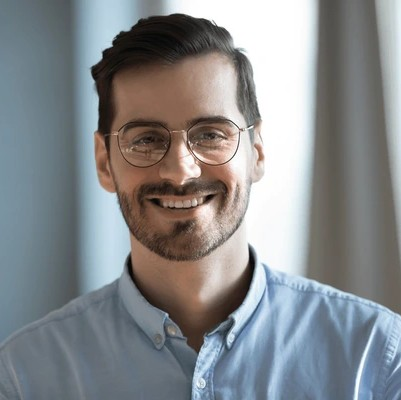
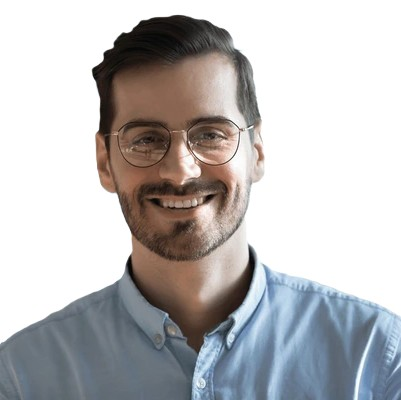
feat: create AgentDetails page

diff --git a/src/data/agents.js b/src/data/agents.js
@@ -6,6 +6,14 @@ import agent_5 from "../assets/images/agents/agent-5.jpg";
 import agent_6 from "../assets/images/agents/agent-6.jpg";
 import agent_7 from "../assets/images/agents/agent-7.jpg";
 import agent_8 from "../assets/images/agents/agent-8.jpg";
+import agent_image1 from "../assets/images/agents/agent-1.png";
+import agent_image2 from "../assets/images/agents/agent-2.png";
+import agent_image3 from "../assets/images/agents/agent-3.png";
+import agent_image4 from "../assets/images/agents/agent-4.png";
+import agent_image5 from "../assets/images/agents/agent-5.png";
+import agent_image6 from "../assets/images/agents/agent-6.png";
+import agent_image7 from "../assets/images/agents/agent-7.png";
+import agent_image8 from "../assets/images/agents/agent-8.png";
 
 const agents = [
   // Men (1-4)
@@ -16,7 +24,8 @@ const agents = [
     phone: "+1 555-123-4567",
     agency: "Luxury Homes Group",
     profileImage: agent_1,
-    bio: "Specializes in high-end properties with 10+ years experience in urban markets.",
+    agentImage: agent_image1,
+    bio: "Lorem, ipsum dolor sit amet consectetur adipisicing elit. Perferendis atque ex harum sed. Odit ratione expedita sed veniam cupiditate voluptate. Ut adipisci, culpa quibusdam cumque quo consectetur cum omnis in.",
   },
   {
     id: "agent_002",
@@ -25,7 +34,8 @@ const agents = [
     phone: "+1 555-234-5678",
     agency: "Premiere Estates",
     profileImage: agent_2,
-    bio: "Commercial real estate expert with focus on tech campuses.",
+    agentImage: agent_image2,
+    bio: "Lorem, ipsum dolor sit amet consectetur adipisicing elit. Perferendis atque ex harum sed. Odit ratione expedita sed veniam cupiditate voluptate. Ut adipisci, culpa quibusdam cumque quo consectetur cum omnis in.",
   },
   {
     id: "agent_003",
@@ -34,7 +44,8 @@ const agents = [
     phone: "+1 555-345-6789",
     agency: "Coastal Properties",
     profileImage: agent_3,
-    bio: "Waterfront property specialist serving beach communities since 2015.",
+    agentImage: agent_image3,
+    bio: "Lorem, ipsum dolor sit amet consectetur adipisicing elit. Perferendis atque ex harum sed. Odit ratione expedita sed veniam cupiditate voluptate. Ut adipisci, culpa quibusdam cumque quo consectetur cum omnis in.",
   },
   {
     id: "agent_004",
@@ -43,7 +54,8 @@ const agents = [
     phone: "+1 555-456-7890",
     agency: "Metro Realty Group",
     profileImage: agent_4,
-    bio: "First-time homebuyer consultant with patience-focused approach.",
+    agentImage: agent_image4,
+    bio: "Lorem, ipsum dolor sit amet consectetur adipisicing elit. Perferendis atque ex harum sed. Odit ratione expedita sed veniam cupiditate voluptate. Ut adipisci, culpa quibusdam cumque quo consectetur cum omnis in.",
   },
   // Women (5-8)
   {
@@ -53,7 +65,8 @@ const agents = [
     phone: "+1 555-567-8901",
     agency: "RealEstateCo",
     profileImage: agent_5,
-    bio: "Top-producing agent specializing in historic properties.",
+    agentImage: agent_image5,
+    bio: "Lorem, ipsum dolor sit amet consectetur adipisicing elit. Perferendis atque ex harum sed. Odit ratione expedita sed veniam cupiditate voluptate. Ut adipisci, culpa quibusdam cumque quo consectetur cum omnis in.",
   },
   {
     id: "agent_006",
@@ -62,7 +75,8 @@ const agents = [
     phone: "+1 555-678-9012",
     agency: "Urban Nest Realty",
     profileImage: agent_6,
-    bio: "Micro-apartment and loft specialist for young professionals.",
+    agentImage: agent_image6,
+    bio: "Lorem, ipsum dolor sit amet consectetur adipisicing elit. Perferendis atque ex harum sed. Odit ratione expedita sed veniam cupiditate voluptate. Ut adipisci, culpa quibusdam cumque quo consectetur cum omnis in.",
   },
   {
     id: "agent_007",
@@ -71,7 +85,8 @@ const agents = [
     phone: "+1 555-789-0123",
     agency: "Country Homes LLC",
     profileImage: agent_7,
-    bio: "Rural property expert with farm and land transaction experience.",
+    agentImage: agent_image7,
+    bio: "Lorem, ipsum dolor sit amet consectetur adipisicing elit. Perferendis atque ex harum sed. Odit ratione expedita sed veniam cupiditate voluptate. Ut adipisci, culpa quibusdam cumque quo consectetur cum omnis in.",
   },
   {
     id: "agent_008",
@@ -80,7 +95,8 @@ const agents = [
     phone: "+1 555-890-1234",
     agency: "LIV International",
     profileImage: agent_8,
-    bio: "Celebrity realtor with discreet high-net-worth client services.",
+    agentImage: agent_image8,
+    bio: "Lorem, ipsum dolor sit amet consectetur adipisicing elit. Perferendis atque ex harum sed. Odit ratione expedita sed veniam cupiditate voluptate. Ut adipisci, culpa quibusdam cumque quo consectetur cum omnis in.",
   },
 ];
 

diff --git a/src/pages/agent-details-components/AgentDetailsHeader.jsx b/src/pages/agent-details-components/AgentDetailsHeader.jsx
@@ -1,0 +1,66 @@
+import React from "react";
+import { FaPhoneAlt } from "react-icons/fa";
+import { HiMiniBuildingOffice } from "react-icons/hi2";
+import { MdEmail } from "react-icons/md";
+import { useNavigate } from "react-router-dom";
+
+const AgentDetailsHeader = ({ agent }) => {
+  const navigate = useNavigate();
+  // navigate to search page
+  const handleNavigate = () => {
+    navigate("/auth");
+    scrollTo(0, 0);
+  };
+  return (
+    <div className="max-w-screen-xl mx-auto h-full  text-brand-secandary flex flex-col items-center ">
+      <div className="flex flex-col lg:flex-row gap-8 items-start sm:items-start justify-start sm:justify-start h-full ">
+        {/* agent picture */}
+        <div className=" flex items-end justify-center sm:justify-start lg:justify-center sm:items-end  gap-6 bg-brand-secandary pt-2  h-[380px] w-full lg:w-[400px]    rounded rounded-b-none ">
+          <img
+            src={agent.agentImage}
+            className="h-80 w-80 lg:h-[360px] lg:w-[350px]"
+            alt=""
+          />
+        </div>
+        <div className="flex-1 sm:pt-4">
+          {/* agent name */}
+          <h2 className="text-2xl sm:text-3xl text-white ">
+            {" "}
+            Expert Real Estate Guidance <br /> with{" "}
+            <span className="text-brand-secandary font-bold">
+              {agent.name}
+            </span>{" "}
+          </h2>
+
+          {/* agent info */}
+          <div>
+            <div className="mt-4  flex flex-col gap-2 text-brand-secandary/70 text-sm font-medium">
+              <p className="flex items-center gap-2">
+                <HiMiniBuildingOffice /> {agent.agency}
+              </p>
+              <p className="flex items-center gap-2">
+                <MdEmail />
+                {agent.email}
+              </p>
+              <p className="flex items-center gap-2">
+                <FaPhoneAlt />
+                {agent.phone}
+              </p>
+            </div>
+            <p className="mt-8 max-w-[650px] text-white/60 text-sm font-medium ">
+              {agent.bio}
+            </p>
+            <button
+              onClick={handleNavigate}
+              className="px-6 py-2 border text-sm font-medium bg-white text-custom_black rounded-sm hover:bg-transparent transition-all duration-200 mt-4"
+            >
+              Contact
+            </button>
+          </div>
+        </div>
+      </div>
+    </div>
+  );
+};
+
+export default AgentDetailsHeader;

diff --git a/src/pages/AgentDetails.jsx b/src/pages/AgentDetails.jsx
@@ -1,9 +1,58 @@
-import React from 'react'
+import bg from "../assets/images/bg.avif";
+import { useParams } from "react-router-dom";
+import agents from "../data/agents";
+import AgentDetailsHeader from "./agent-details-components/AgentDetailsHeader";
+import Testimonials from "../components/Testimonials";
+import GetStarted from "../components/GetStarted";
+import MoreAgents from "./agent-details-components/MoreAgents";
 
 const AgentDetails = () => {
-  return (
-    <div>AgentDetails</div>
-  )
-}
+  const { agentId } = useParams();
 
-export default AgentDetails
+  const foundAgent = agents.find((agent) => agent.id === agentId);
+
+  console.log(foundAgent);
+
+  return (
+    <div>
+      {/* hero section with background image */}
+      <section
+        style={{
+          backgroundImage: `url(${bg})`,
+          backgroundRepeat: "no-repeat",
+          backgroundPosition: "center",
+          backgroundSize: "cover",
+        }}
+        className="px-4 xl:px-0 pt-[12vh] sm:pt-[16vh] lg:pt-[20vh] xl:pt-[20vh]  bg-brand-primary text-white  py-12  pb-72 lg:pb-32 xl:pb-32  "
+      >
+        <AgentDetailsHeader agent={foundAgent} />
+      </section>
+
+      {/* section */}
+
+      {/* our agents */}
+      <section className="relative  max-w-screen-xl mx-4 xl:mx-auto    ">
+        <div className="w-full absolute left-1/2 -translate-x-1/2 top-1/4 -translate-y-1/4  ">
+          <div className="bg-white border shadow-2xl shadow-custom_black/20  pt-8 px-4 sm:px-10 lg:px-12 xl:px-16 pb-4 md:py-16 ">
+            <MoreAgents agent={foundAgent} />
+          </div>
+        </div>
+      </section>
+
+      {/* testimonials section */}
+      <section
+        className=" px-4 xl:px-0 mt-[720px] pb-24 md:pb-16 
+      sm:mt-[450px] md:mt-[530px] lg:mt-[450px] xl:mt-[480px] "
+      >
+        <Testimonials />
+      </section>
+
+      {/* getstarted section */}
+      <section className="px-4 xl:px-0 mt-20 lg:mt-24 ">
+        <GetStarted />
+      </section>
+    </div>
+  );
+};
+
+export default AgentDetails;

diff --git a/src/pages/agent-details-components/MoreAgents.jsx b/src/pages/agent-details-components/MoreAgents.jsx
@@ -1,0 +1,34 @@
+import React from "react";
+import agents from "../../data/agents";
+import Agent from "../../components/Agent";
+const MoreAgents = ({ agent }) => {
+  const order = [0, 4, 2, 3, 7, 1, 5, 6];
+  const reorderedAgent = order.map((index) => agents[index]);
+
+  const filteredAgenst = reorderedAgent.filter((ag) => ag.id !== agent.id);
+  return (
+    <div className="max-w-screen-xl mx-auto">
+      <div>
+        {/* title and description */}
+        <div className=" flex flex-col items-start">
+          <h2 className="text-2xl md:text-4xl font-bold sm:font-semibold">
+            More Agents You Can Trust
+          </h2>
+          <p className=" text-sm md:text-base mt-2 lg:mt-2  pb-3 text-custom_black/70 font-medium">
+            Connect with experienced professionals ready to guide you through
+            every step of your real estate
+          </p>
+        </div>
+
+        {/* grid of agents  */}
+        <div className="mt-6 grid gap-4 sm:grid-cols-2  lg:gap-4 lg:grid-cols-3  ">
+          {filteredAgenst.map((agent) => (
+            <Agent key={agent.id} agent={agent} />
+          ))}
+        </div>
+      </div>
+    </div>
+  );
+};
+
+export default MoreAgents;

diff --git a/src/components/Agent.jsx b/src/components/Agent.jsx
@@ -1,6 +1,14 @@
 import React from "react";
+import { useNavigate } from "react-router-dom";
 
 const Agent = ({ agent }) => {
+  // navigare to agent details page
+  const navigate = useNavigate();
+
+  const handleNavigate = () => {
+    navigate(`/agent-details/${agent.id}`);
+    window.scrollTo(0, 0);
+  };
   return (
     <div className="group  flex items-center justify-between border border-custom_black/10 shadow-sm p-3">
       <div className="flex items-center gap-3">
@@ -24,7 +32,7 @@ const Agent = ({ agent }) => {
 
       {/* contact button */}
       <button
-        onClick={() => navigate(`/agent-details/${agent.id}`)}
+        onClick={() => handleNavigate(agent.id)}
         className="border border-custom_black/20 px-3 py-1.5 text-sm font-medium text-custom_black transition hover:bg-custom_black hover:text-white hover:border-custom_black"
       >
         Contact
